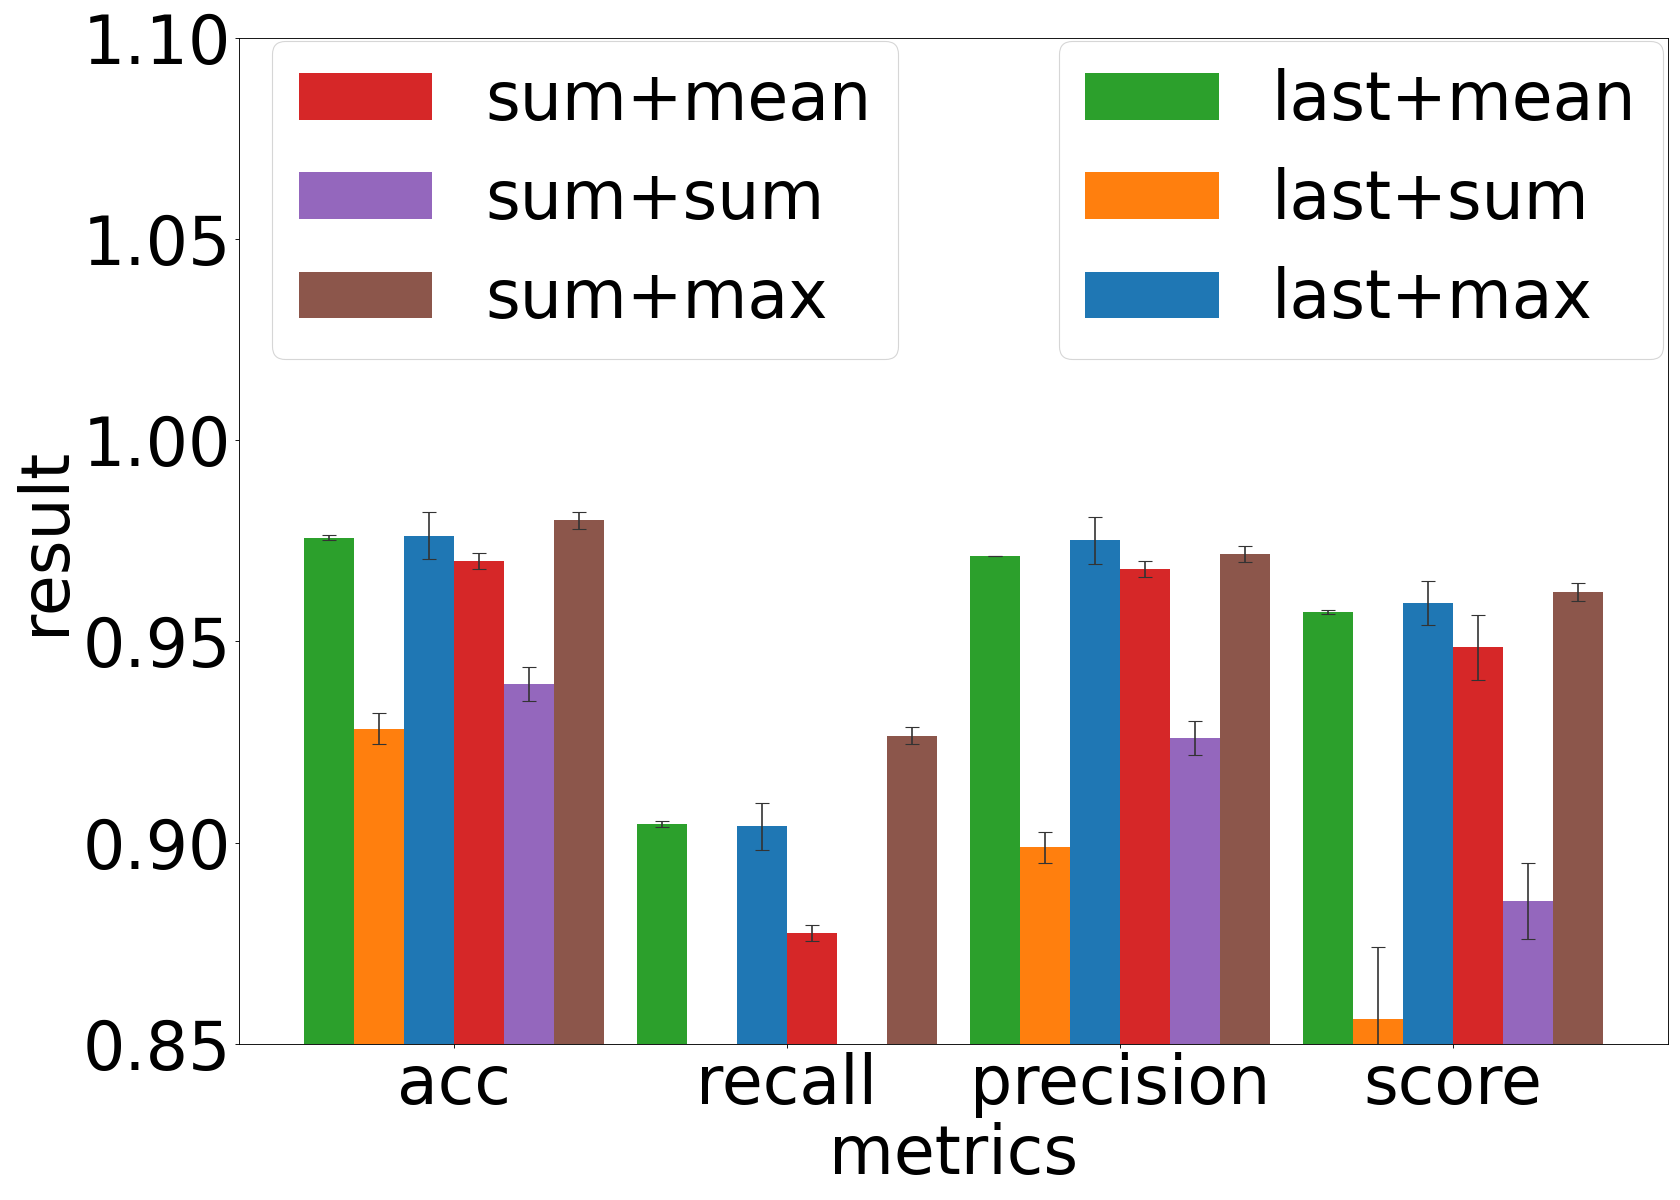
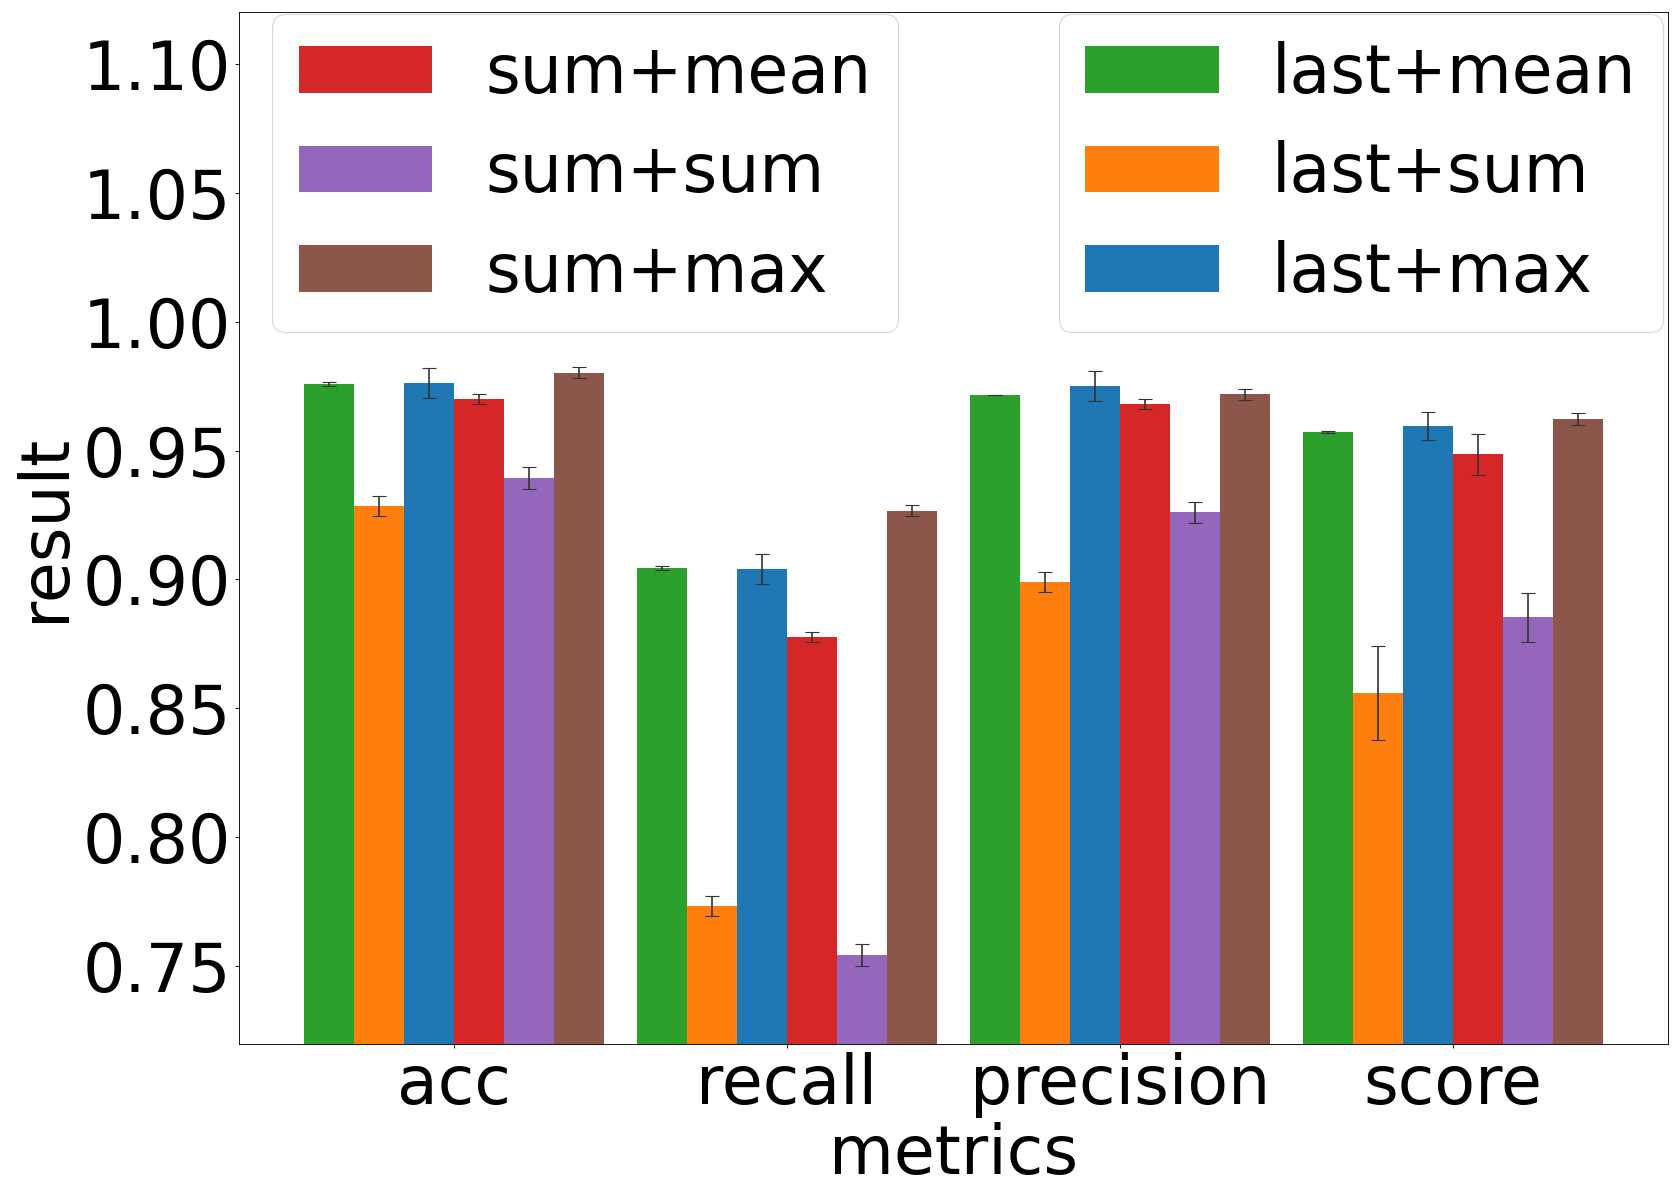
adjust gin split2 vary jk+pooling

diff --git a/plot_bar.py b/plot_bar.py
@@ -115,6 +115,8 @@ if args.datafile == 'gcn_split1_vary_jk_pooling.txt':
     plt.ylim(0.91,1.06)
 elif args.datafile == 'cad_split2_vary_jk_pooling.txt':
     plt.ylim(0.76,1.06)
+elif args.datafile == 'gin_split2_vary_jk_pooling.txt':
+    plt.ylim(0.72,1.12)
 else:
     plt.ylim(0.85,1.10)
 figure_title = args.datafile.split('.')[0]
